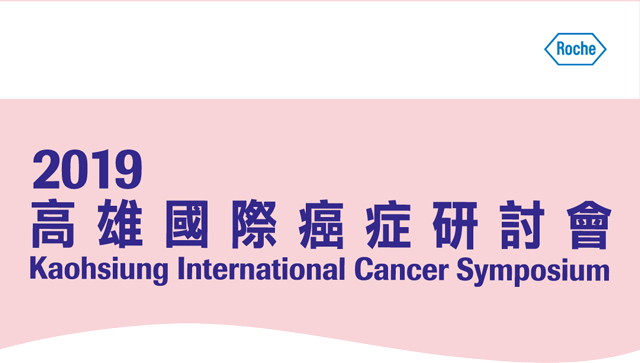
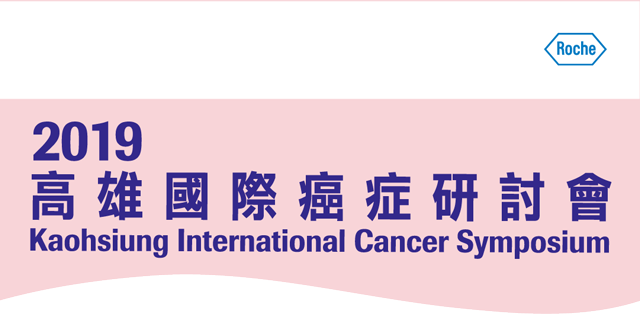
update

diff --git a/css/default.css b/css/default.css
@@ -3355,12 +3355,12 @@ html, body {
   top: 0;
   left: 0;
   width: 640px;
-  height: 363px;
+  height: 314px;
   background-image: url("../images/top.png");
   z-index: 3;
 }
 .bigContainer .page .content {
-  top: 400px;
+  top: 325px;
 }
 .bigContainer .page .calendarBtn {
   position: absolute;

diff --git a/sass/_index.sass b/sass/_index.sass
@@ -177,6 +177,6 @@ html,body
 			z-index: 3
 	.page
 		.content
-			top: 400px
+			top: 325px
 		.calendarBtn
 			+pageBtn(500,400,200,200,0)
